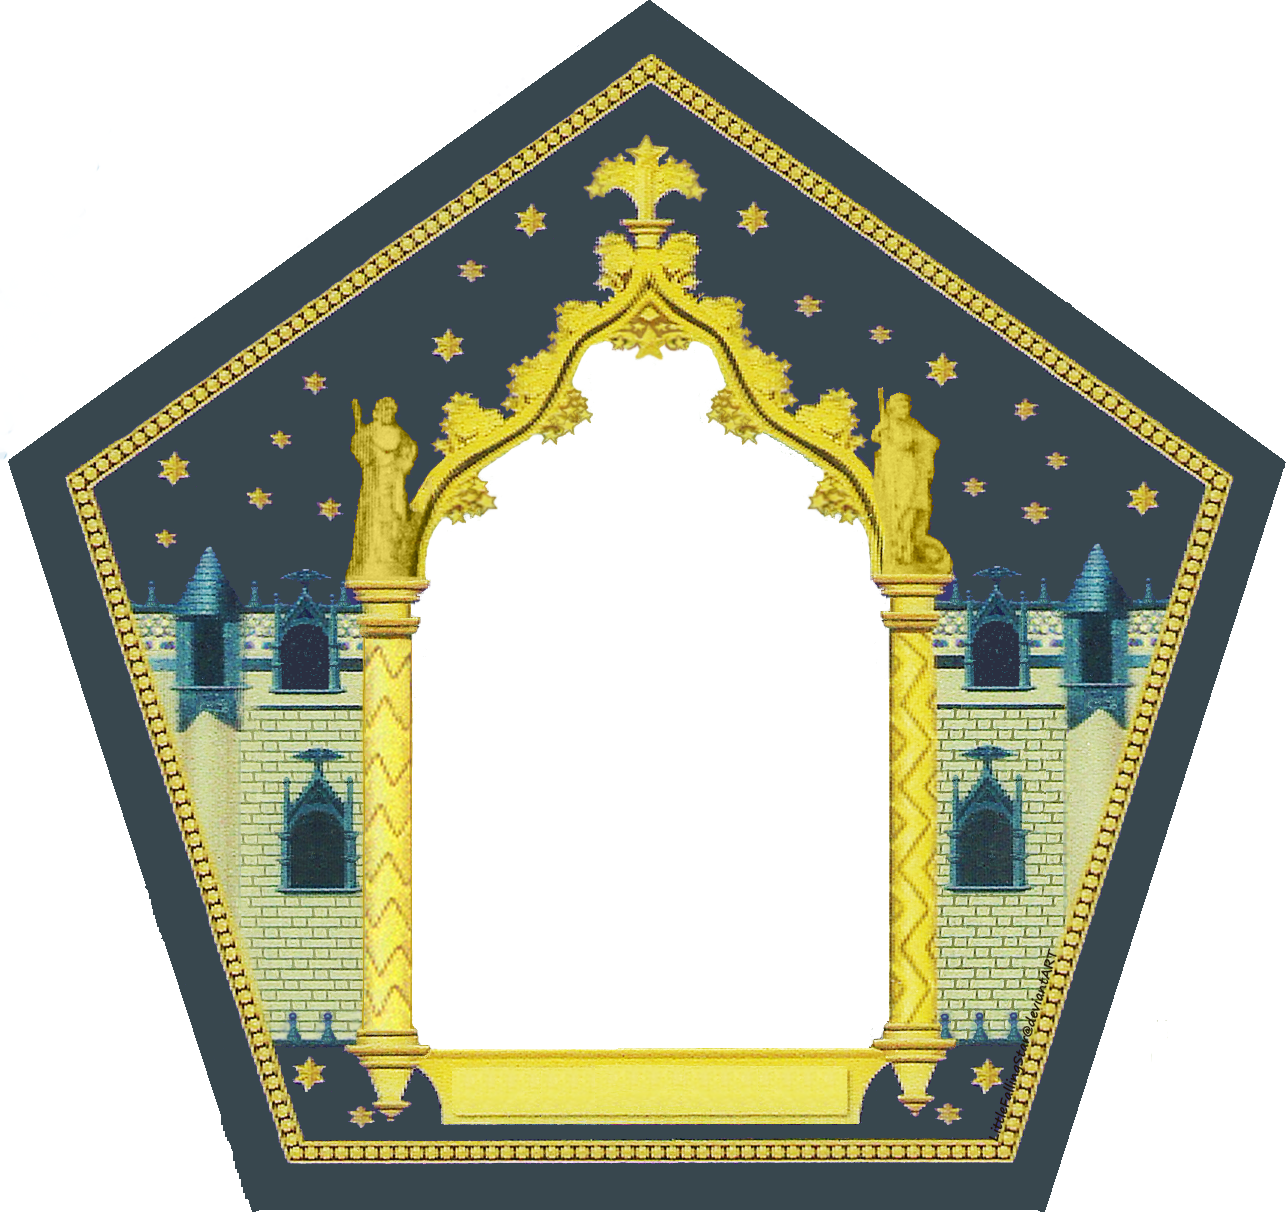
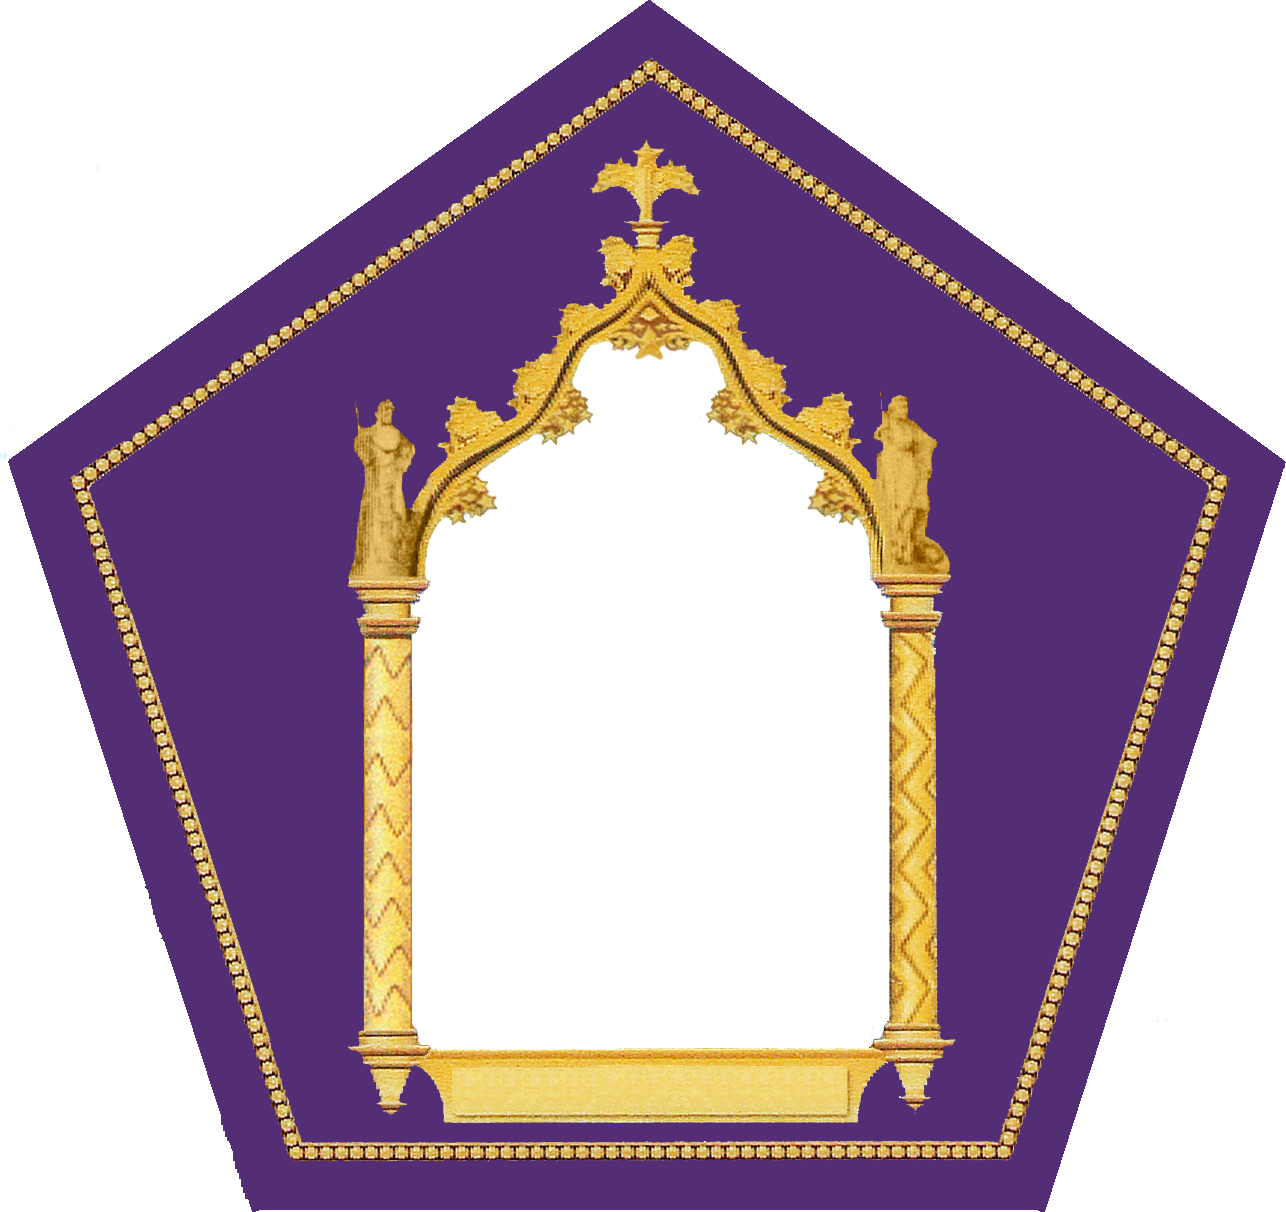
card flip

diff --git a/dev/styles/partials/_normalize.scss b/dev/styles/partials/_normalize.scss
@@ -1,6 +1,12 @@
 article,aside,details,figcaption,figure,footer,header,hgroup,nav,section,summary{display:block;}audio,canvas,video{display:inline-block;}audio:not([controls]){display:none;height:0;}[hidden]{display:none;}html{font-family:sans-serif;-webkit-text-size-adjust:100%;-ms-text-size-adjust:100%;}a:focus{outline:thin dotted;}a:active,a:hover{outline:0;}h1{font-size:2em;}abbr[title]{border-bottom:1px dotted;}b,strong{font-weight:700;}dfn{font-style:italic;}mark{background:#ff0;color:#000;}code,kbd,pre,samp{font-family:monospace, serif;font-size:1em;}pre{white-space:pre-wrap;word-wrap:break-word;}q{quotes:\201C \201D \2018 \2019;}small{font-size:80%;}sub,sup{font-size:75%;line-height:0;position:relative;vertical-align:baseline;}sup{top:-.5em;}sub{bottom:-.25em;}img{border:0;}svg:not(:root){overflow:hidden;}fieldset{border:1px solid silver;margin:0 2px;padding:.35em .625em .75em;}button,input,select,textarea{font-family:inherit;font-size:100%;margin:0;}button,input{line-height:normal;}button,html input[type=button],/* 1 */input[type=reset],input[type=submit]{-webkit-appearance:button;cursor:pointer;}button[disabled],input[disabled]{cursor:default;}input[type=checkbox],input[type=radio]{box-sizing:border-box;padding:0;}input[type=search]{-webkit-appearance:textfield;-moz-box-sizing:content-box;-webkit-box-sizing:content-box;box-sizing:content-box;}input[type=search]::-webkit-search-cancel-button,input[type=search]::-webkit-search-decoration{-webkit-appearance:none;}textarea{overflow:auto;vertical-align:top;}table{border-collapse:collapse;border-spacing:0;}body,figure{margin:0;}legend,button::-moz-focus-inner,input::-moz-focus-inner{border:0;padding:0;}
 .clearfix:after {visibility: hidden; display: block; font-size: 0; content: ''; clear: both; height: 0; }
+
 * { -moz-box-sizing: border-box; -webkit-box-sizing: border-box; box-sizing: border-box; }
+
+* {
+    margin: 0;
+    padding: 0;
+}
 
 h1, h2, h3, h4, h5, h6, p, li, ul {
     margin:0 auto;

diff --git a/dev/styles/partials/_frogCard.scss b/dev/styles/partials/_frogCard.scss
@@ -3,7 +3,7 @@
     height: 440px;
     // margin: 15px;
     float: left;
-    border: 1px solid red;
+    // border: 1px solid red;
     position: relative;
 }
 
@@ -47,9 +47,11 @@
 .portrait {
     position: absolute;
     z-index: 1;
-    height: 200px;
-    left: 22%;
-    top: 28%;
+    height: 60%;
+    transform: translate(-50%, -38%);
+    left: 50%;
+    top: 50%;
+    
 }
 
 .frogCardBackBorder {

diff --git a/dev/scripts/Gryffindor.js b/dev/scripts/Gryffindor.js
@@ -83,8 +83,8 @@ class Gryffindor extends React.Component {
                     params: {
                         format: 'json',
                         titles: char.name,
-                        width: 200,
-                        height: 200,
+                        // width: 200,
+                        // height: 200,
                     }
                 }
             });

diff --git a/dev/scripts/Hufflepuff.js b/dev/scripts/Hufflepuff.js
@@ -81,8 +81,8 @@ class Hufflepuff extends React.Component {
                     params: {
                         format: 'json',
                         titles: char.name,
-                        width: 250,
-                        height: 250,
+                        // width: 200,
+                        // height: 200,
                     }
                 }
             });

diff --git a/dev/scripts/Ravenclaw.js b/dev/scripts/Ravenclaw.js
@@ -82,8 +82,8 @@ class Ravenclaw extends React.Component {
                     params: {
                         format: 'json',
                         titles: char.name,
-                        width: 250,
-                        height: 250,
+                        width: 200,
+                        height: 200,
                     }
                 }
             });

diff --git a/dev/scripts/Slytherin.js b/dev/scripts/Slytherin.js
@@ -82,8 +82,8 @@ class Slytherin extends React.Component {
                     params: {
                         format: 'json',
                         titles: char.name,
-                        width: 250,
-                        height: 250,
+                        width: 200,
+                        height: 200,
                     }
                 }
             });
